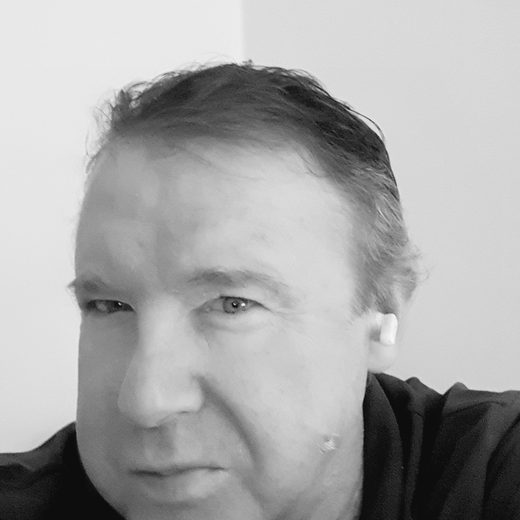
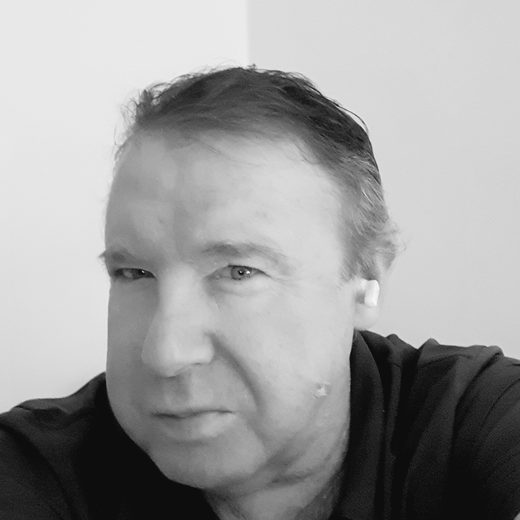
Apps: one self-playing app animation; photo on Contact page and re-cropped to show full face (#9)
Claude-Session: https://claude.ai/code/session_01H3qpXCGie9RWrziSfzskSr

diff --git a/index.html b/index.html
@@ -278,13 +278,23 @@ footer nav a{color:var(--band-fg);font-weight:600;text-decoration:none}
 .meet{background:var(--bg)}
 .meet .wrap{padding-block:44px 8px}
 .meetcard{display:grid;grid-template-columns:auto 1fr;gap:18px;align-items:center;background:var(--surface);border:1px solid var(--line);border-radius:26px;padding:18px;box-shadow:0 18px 40px -26px #12212b66}
-.meetcard img{width:104px;height:104px;border-radius:50%;object-fit:cover;object-position:50% 35%;border:3px solid var(--accent);box-shadow:0 0 0 5px #F2B7052e}
+.meetcard img{width:104px;height:104px;border-radius:50%;object-fit:cover;object-position:50% 50%;border:3px solid var(--accent);box-shadow:0 0 0 5px #F2B7052e}
 .meetcard h2{margin:0 0 4px;font-family:var(--display);font-size:1.35rem}
 .meetcard p{margin:0 0 12px;color:var(--muted);font-size:.98rem;line-height:1.45}
 .meetcard .btn{padding:11px 18px;font-size:.95rem}
 @media (max-width:380px){.meetcard{grid-template-columns:1fr;justify-items:center;text-align:center}}
 @media (min-width:820px){.meetcard{padding:26px 30px;gap:28px}.meetcard img{width:150px;height:150px}.meetcard h2{font-size:1.7rem}}
 
+.build{height:auto!important;padding-block:44px 52px}
+.build .pin{position:static!important;height:auto!important;grid-template-rows:none!important;gap:18px!important}
+.build .bphone{height:min(470px,64svh);max-height:none}
+.bscr{position:relative}
+.bscr .l6{position:absolute;inset:0;z-index:5;background:linear-gradient(160deg,#1b3140,#0c1820);display:grid;grid-template-rows:1fr auto;padding:34px 14px 18px;color:#fff;font-size:.78rem;text-align:center;border-radius:24px}
+.bscr .l6 .hg{display:grid;grid-template-columns:repeat(4,1fr);grid-auto-rows:min-content;gap:16px 10px;align-content:start}
+.bscr .l6 .hg i{aspect-ratio:1;border-radius:22%;background:#ffffff22}
+.bscr .l6 .hg i.me{background:var(--accent);color:var(--accent-ink);display:grid;place-items:center;font-style:normal;font-weight:800;font-size:1.3rem;animation:hpop 1.6s ease-in-out infinite}
+@keyframes hpop{50%{transform:scale(1.16)}}
+.bscr .l6 b{font-weight:600;opacity:.9}
 /* live app + digital tiles */
 .live{display:grid;gap:14px;justify-items:center;text-align:center;margin-top:6px}
 .lphone{position:relative;width:min(292px,76vw);aspect-ratio:390/844;border-radius:40px;padding:10px;background:linear-gradient(145deg,#2c3a44,#0a1217);box-shadow:0 30px 70px -18px #000c,0 0 0 1.5px #ffffff22 inset,0 0 90px -24px #1E8A5A}
@@ -835,8 +845,9 @@ canvas.fx{position:absolute;inset:0;width:100%;height:100%;z-index:-1;opacity:.7
     <div class="l l3"><span>Book now</span></div>
     <div class="l l4"><b>Christmas hours</b><small>Closed 25th and 26th</small></div>
     <div class="l l5"><i>What time do you close?</i><i class="r">Answers from your own details</i></div>
+    <div class="l l6" aria-hidden="true"><div class="hg"><i></i><i></i><i></i><i></i><i></i><i class="me">S</i><i></i><i></i><i></i><i></i><i></i><i></i></div><b>Sample Barbers</b></div>
   </div></div>
-  <div class="bdots" aria-hidden="true"><i></i><i></i><i></i><i></i><i></i></div>
+  <div class="bdots" aria-hidden="true"><i></i><i></i><i></i><i></i><i></i><i></i></div>
 </div></section>
 
 <section><div class="wrap">
@@ -849,15 +860,6 @@ canvas.fx{position:absolute;inset:0;width:100%;height:100%;z-index:-1;opacity:.7
   </div>
   <div class="cta-row rv"><a class="btn primary" href="https://wa.me/447751435993?text=Hi%20Adrian%2C%20I%27d%20like%20to%20ask%20about%20an%20app">Ask me about an app</a></div>
 </div></section>
-<section><div class="wrap">
-  <span class="eyebrow rv">How the free one works</span>
-  <ol class="steps">
-    <li class="rv"><span class="n">1</span><div><h3>Open your site</h3><p>Your customers open your page on their phone.</p></div></li>
-    <li class="rv"><span class="n">2</span><div><h3>Add it to the home screen</h3><p>One tap in the browser menu.</p></div></li>
-    <li class="rv"><span class="n">3</span><div><h3>There's your icon</h3><p>With your name, one tap from their other apps.</p></div></li>
-  </ol>
-  <div class="homescr rv" aria-hidden="true"><div class="in"><i class="ico"></i><i class="ico"></i><i class="ico"></i><i class="ico"></i><i class="ico"></i><i class="ico me">S</i><i class="ico"></i><i class="ico"></i><i class="ico"></i><i class="ico"></i><i class="ico"></i><i class="ico"></i></div></div>
-</div></section>
 </main>
 <main id="p-contact" data-page="contact" hidden>
 <header class="hero sub"><i class="aur a"></i><i class="aur b"></i><div class="wrap">
@@ -865,6 +867,13 @@ canvas.fx{position:absolute;inset:0;width:100%;height:100%;z-index:-1;opacity:.7
   <h1 data-split>Fancy a free draft?</h1>
   <p class="lead">Message me your business name and what you do. I'll send you a link to your draft, usually within a day or two.</p><div class="floaty" aria-hidden="true"><i>Hi Adrian 👋</i><i class="r">Free draft please</i><i>Sounds good</i></div>
 </div></header>
+<section class="meet"><div class="wrap">
+  <div class="meetcard rv">
+    <img src="img/adrian.jpg" width="104" height="104" loading="lazy" decoding="async" alt="Adrian Standage, who builds and looks after your website">
+    <div><h2>You'll be talking to me</h2>
+    <p>I'm Adrian, I live in Basingstoke and I answer every message myself, usually the same day.</p></div>
+  </div>
+</div></section>
 <section><div class="wrap">
   <div class="contacts">
     <a class="cc main rv" href="https://wa.me/447751435993?text=Hi%20Adrian%2C%20I%27d%20like%20a%20free%20draft%20of%20my%20website"><span>WhatsApp</span><b>Message me now</b></a>
@@ -1029,15 +1038,20 @@ canvas.fx{position:absolute;inset:0;width:100%;height:100%;z-index:-1;opacity:.7
   var bd=$(".build");
   if(bd){
     var L=$$(".bscr .l",bd),cp=$("[data-cap]",bd),sb=$("[data-sub]",bd),bdt=$$(".bdots i",bd);
-    var T=[["Your name and logo","Your business at the top of the screen."],["Your services and prices","Sample prices. Yours would be your own."],["A Book button","Right where people look for it."],["Offers and hours","Christmas hours, a special offer, whatever's on."],["A chat box","Answers from your own details."]];
+    var T=[["Your name and logo","Your business at the top of the screen."],["Your services and prices","Sample prices. Yours would be your own."],["A Book button","Right where people look for it."],["Offers and hours","Christmas hours, a special offer, whatever's on."],["A chat box","Answers from your own details."],["On their home screen","One tap, free with every site."]];
     var bc=-1;
-    function bframe(){
-      var r=bd.getBoundingClientRect(),p=clamp(-r.top/(r.height-innerHeight)),k=reduce?L.length-1:Math.min(L.length-1,Math.floor(p*(L.length+.3)));
-      if(k===bc)return;bc=k;
-      L.forEach(function(l,j){l.classList.toggle("on",j<=k)});bdt.forEach(function(x,j){x.classList.toggle("on",j===k)});
+    function bshow(k){
+      bc=k;L.forEach(function(l,j){l.classList.toggle("on",j<=k)});bdt.forEach(function(x,j){x.classList.toggle("on",j===k)});
       cp.textContent=T[k][0];sb.textContent=T[k][1];
     }
-    addEventListener("scroll",bframe,{passive:true});bframe();
+    if(reduce){bshow(T.length-1)}else{
+      var bt=null,bn=0;
+      function bstep(){bshow(bn%T.length);bn++}
+      function bgo(){if(!bt){bstep();bt=setInterval(bstep,2400)}}
+      function bstop(){clearInterval(bt);bt=null}
+      if("IntersectionObserver" in window){new IntersectionObserver(function(es){es.forEach(function(e){e.isIntersecting?bgo():bstop()})},{threshold:.35}).observe(bd)}else bgo();
+      bshow(0);
+    }
   }
 
   // hero video: respect reduced motion, pause off screen
